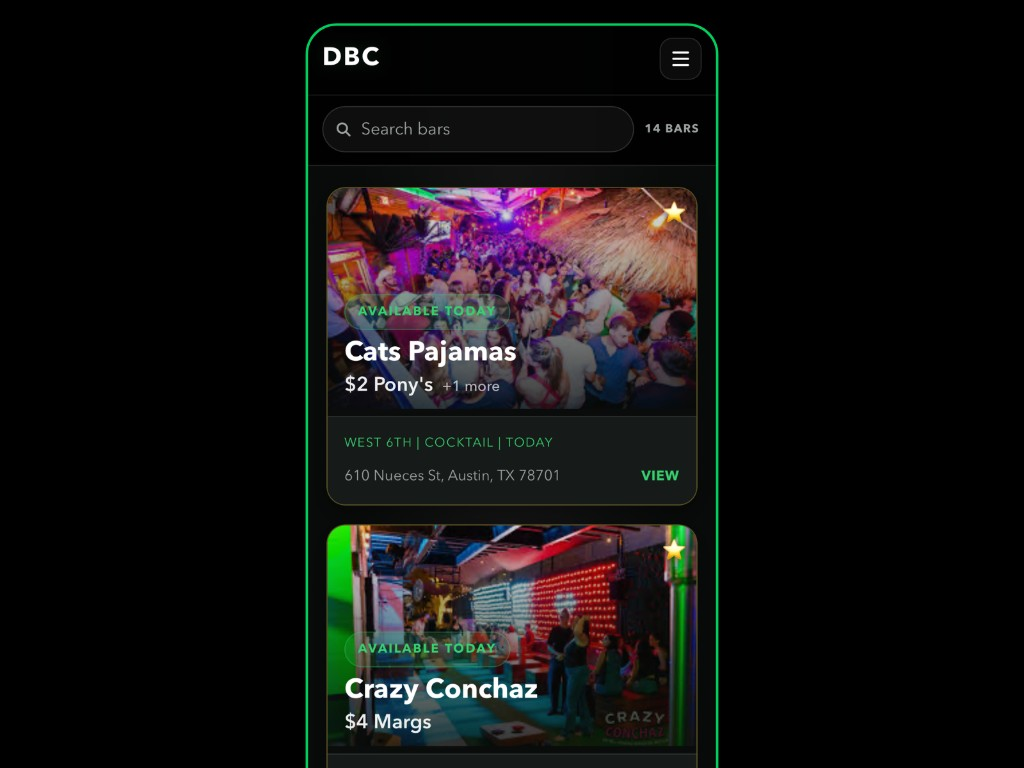
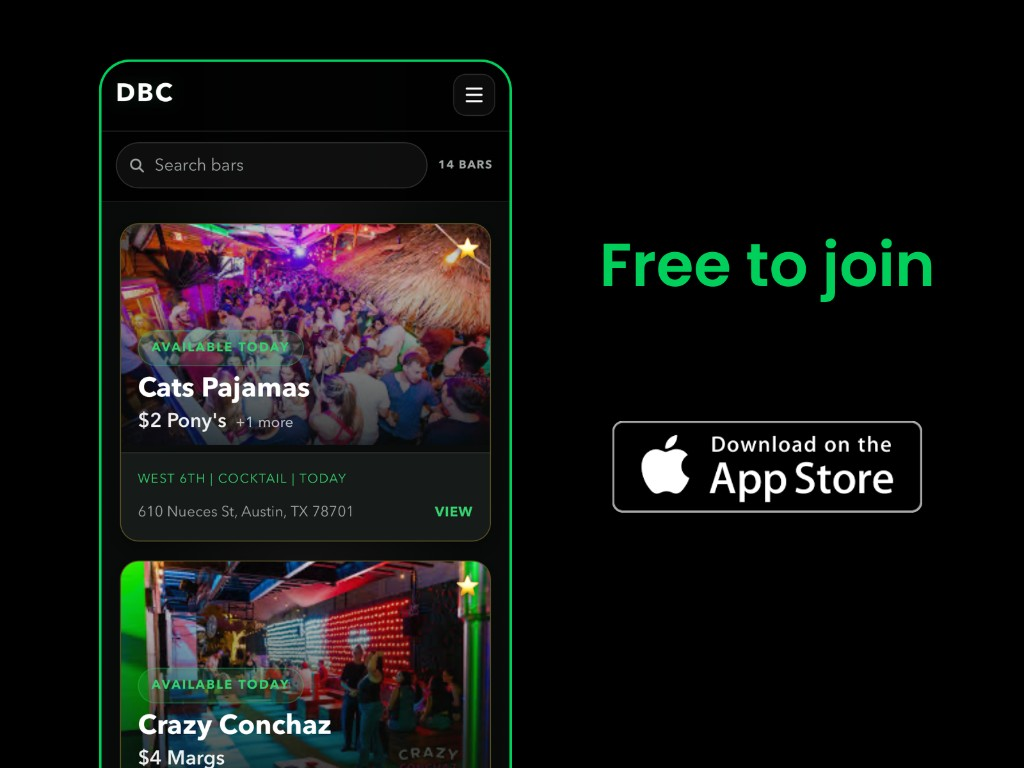
Update hero image and shorten CTA to 'Download'
Made-with: Cursor

diff --git a/website/index.html b/website/index.html
@@ -413,7 +413,7 @@
             Access exclusive, venue-hosted specials and neighborhood perks at hand-selected Austin bars.
           </p>
           <div class="hero-cta">
-            <a class="primary-btn" href="https://apps.apple.com/us/app/dollar-bar-club/id6761236436" target="_blank" rel="noopener noreferrer">Download on the App Store</a>
+            <a class="primary-btn" href="https://apps.apple.com/us/app/dollar-bar-club/id6761236436" target="_blank" rel="noopener noreferrer">Download</a>
             <span style="font-size: 18px; font-weight: 600; color: #fff;">100% free for locals</span>
           </div>
           <div class="hero-subcta">
